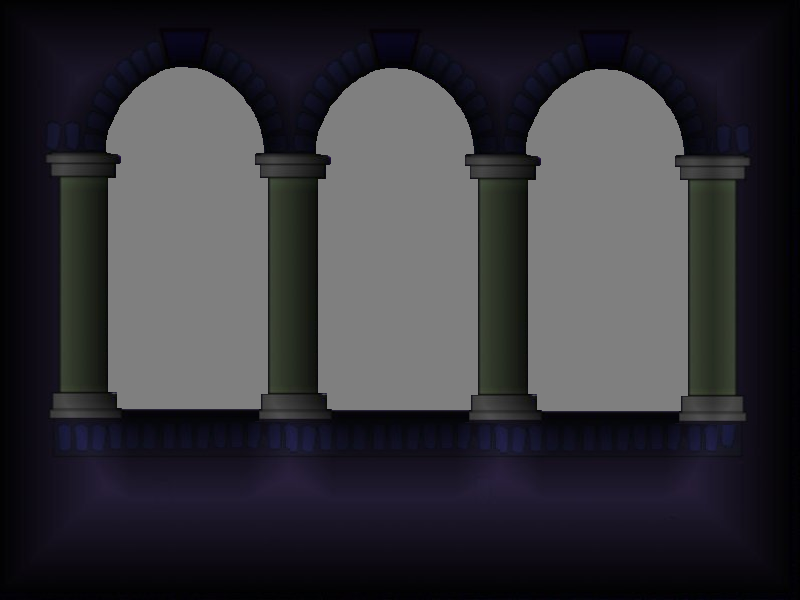
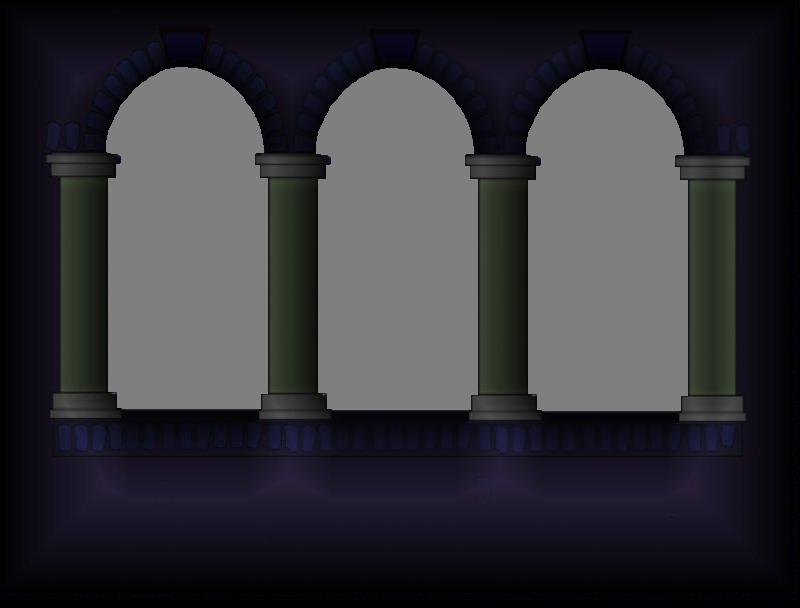
Resized the castle background so it will scroll evenly, vertically.
600 is not divisible by 32, so a 600 pixel tall background will be
slightly offset depending on the current "floor". 608 aligns
perfectly, on the other hand.

Also blurred the bottom of the castle image so that it transitions
smoother.

diff --git a/retux.py b/retux.py
@@ -6974,7 +6974,7 @@ for i in list(backgrounds.keys()):
                                 xscroll_rate=0.75, yscroll_rate=1,
                                 repeat_left=True, repeat_right=True,
                                 repeat_up=True),
-            sge.BackgroundLayer(castle_bottom_spr, 0, 536, -99000,
+            sge.BackgroundLayer(castle_bottom_spr, 0, 544, -99000,
                                 xscroll_rate=0.75, yscroll_rate=1,
                                 repeat_left=True, repeat_right=True,
                                 repeat_down=True)]
